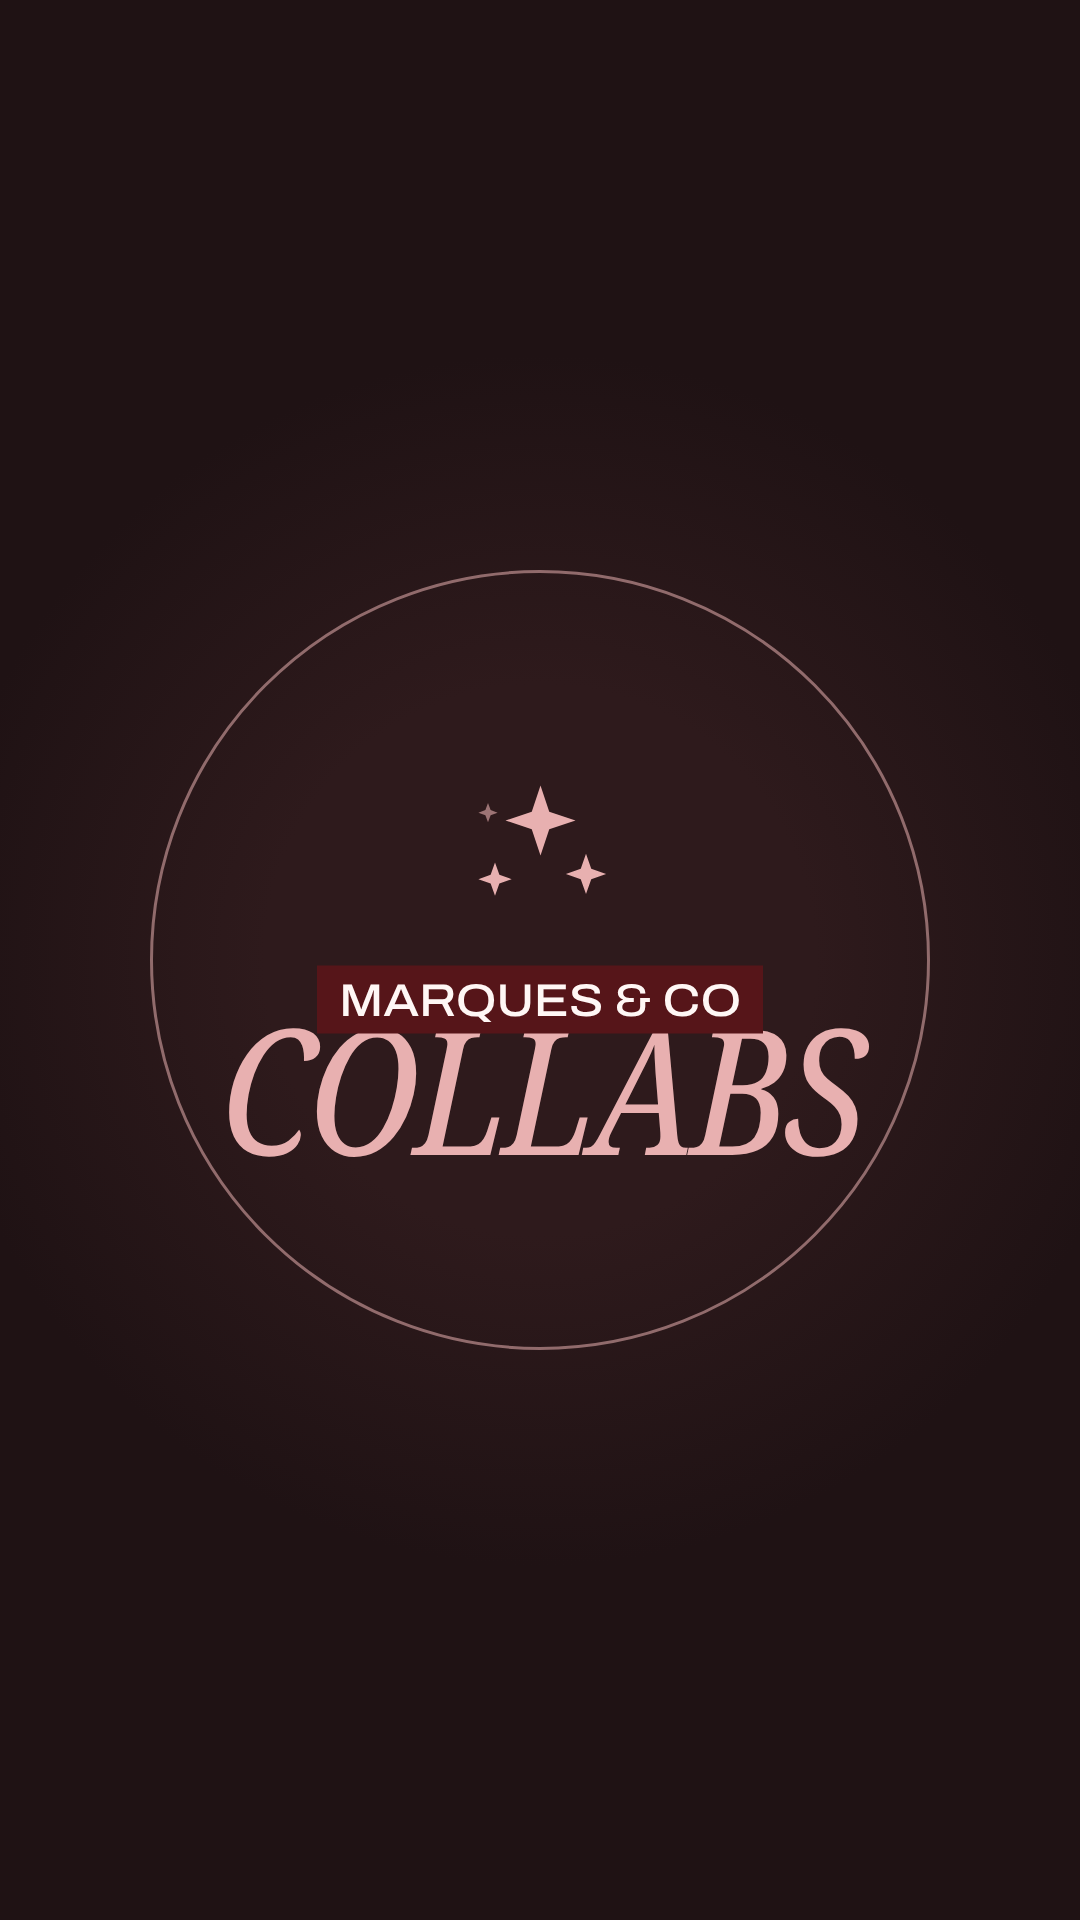
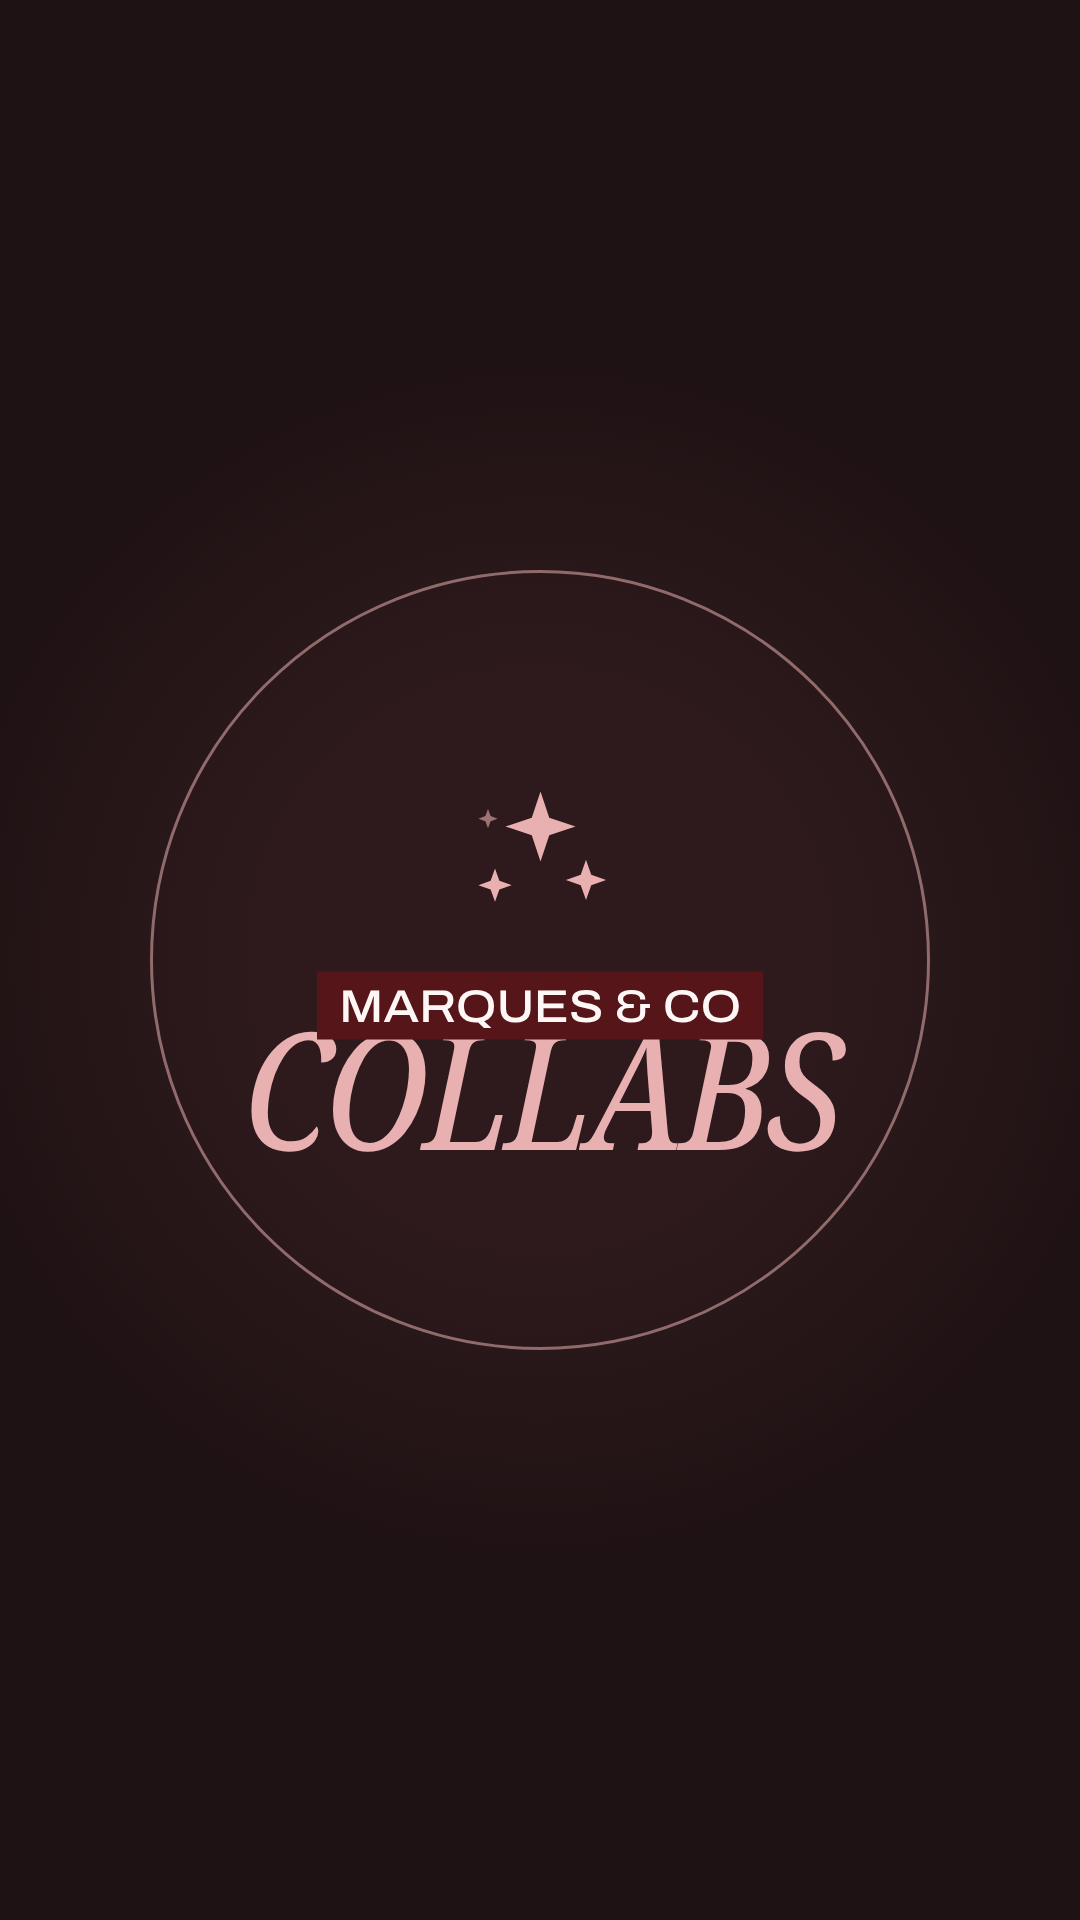
Ajoute les bulles sport, style, matcha, danse et greece
Claude-Session: https://claude.ai/code/session_01M6s8wp3XpgKUKSTkvZAW4S

Changed region(s): [[0.2139, 0.5, 0.825, 0.625], [0.4583, 0.4062, 0.5194, 0.4375], [0.5194, 0.4375, 0.55, 0.4688]]

diff --git a/couvertures-bulles/gen.js b/couvertures-bulles/gen.js
@@ -7,6 +7,11 @@ const mirror=`<svg viewBox="0 0 200 200"><ellipse cx="100" cy="82" rx="52" ry="6
 const collab=`<svg viewBox="0 0 200 200"><path d="M100 40 l10 30 30 10 -30 10 -10 30 -10 -30 -30 -10 30 -10Z" fill="${R}"/><path d="M152 118 l6 17 17 6 -17 6 -6 17 -6 -17 -17 -6 17 -6Z" fill="${R}"/><path d="M48 128 l5 14 14 5 -14 5 -5 14 -5 -14 -14 -5 14 -5Z" fill="${R}"/><path d="M40 60 l3 8 8 3 -8 3 -3 8 -3 -8 -8 -3 8 -3Z" fill="${R}" opacity=".6"/></svg>`;
 const martini=`<svg viewBox="0 0 200 200"><path d="M40 50 H160 L100 118Z" ${S}/><path d="M100 118 V180 M70 182 H130" ${S}/><circle cx="132" cy="44" r="15" fill="${R}"/><path d="M132 30 C136 18 146 12 154 10" ${S} stroke-width="5"/></svg>`;
 const fork=`<svg viewBox="0 0 200 200"><circle cx="100" cy="110" r="66" ${S}/><circle cx="100" cy="110" r="44" ${S} stroke-width="4" opacity=".6"/><path d="M22 40 V186 M12 40 V72 a10 10 0 0 0 20 0 V40" ${S} stroke-width="6"/><path d="M186 186 V40 C168 50 166 90 174 110 H186" ${S} stroke-width="6"/></svg>`;
+const dumbbell=`<svg viewBox="0 0 200 200"><path d="M50 100 H150" ${S}/><rect x="28" y="62" width="22" height="76" rx="6" fill="${R}"/><rect x="150" y="62" width="22" height="76" rx="6" fill="${R}"/><rect x="10" y="78" width="16" height="44" rx="5" fill="${R}"/><rect x="174" y="78" width="16" height="44" rx="5" fill="${R}"/></svg>`;
+const hanger=`<svg viewBox="0 0 200 200"><path d="M86 52 a14 14 0 1 1 22 12 c-6 4 -8 8 -8 16 L176 140 c6 4 4 12 -4 12 H28 c-8 0 -10 -8 -4 -12 L100 80" ${S}/></svg>`;
+const matcha=`<svg viewBox="0 0 200 200"><path d="M24 96 H176 C176 146 144 176 100 176 C56 176 24 146 24 96Z" ${S}/><path d="M36 96 C70 84 130 84 164 96Z" fill="${R}" opacity=".85"/><path d="M78 76 C68 62 88 50 78 34 M104 74 C94 58 116 46 104 26 M130 76 C120 62 140 50 130 34" ${S} stroke-width="5" opacity=".8"/><path d="M148 140 C160 128 178 128 186 120 C184 136 168 150 148 140Z" fill="${R}"/></svg>`;
+const ballet=`<svg viewBox="0 0 200 200"><circle cx="104" cy="34" r="16" fill="${R}"/><path d="M100 56 L94 112 M96 66 C120 54 140 36 150 14 M96 70 C76 80 58 84 38 76 M94 112 L60 186 M94 112 C120 118 150 112 176 96" ${S}/><path d="M80 118 C88 104 104 104 112 118" ${S} stroke-width="5"/></svg>`;
+const column=`<svg viewBox="0 0 200 200"><circle cx="150" cy="44" r="22" fill="${R}"/><path d="M40 70 H130 M46 82 H124 M56 82 V164 M76 82 V164 M94 82 V164 M114 82 V164 M44 164 H126 M36 180 H134" ${S}/><path d="M36 70 C40 60 50 60 54 66 M134 70 C130 60 120 60 116 66" ${S} stroke-width="5"/></svg>`;
 // [fichier, mot (Noto Serif), taille, étiquette (CY Grotesk), icône]
 const covers=[
  ['me','Me',300,'Maena',mirror],
@@ -14,9 +19,14 @@ const covers=[
  ['her','Her',300,'Soirées',martini],
  ['becoming','Becoming',145,'Chaque lundi',cherry],
  ['annecy','Annecy',180,'À croquer',fork],
+ ['sport','Sport',300,'Move',dumbbell],
+ ['style','Style',300,'Outfits',hanger],
+ ['matcha','Matcha',300,'Ma pause',matcha],
+ ['danse','Danse',300,'Dance',ballet],
+ ['greece','Greece',300,'Voyage',column],
 ];
 (async()=>{const b=await chromium.launch();const p=await b.newPage({viewport:{width:1080,height:1920}});
 const t=fs.readFileSync(__dirname+'/template.html','utf8');
 for(const [f,w,s,tag,ic] of covers){await p.setContent(t.replace('__ICON__',ic).replace('__WORD__',w).replace('__SIZE__',s).replace('__TAG__',tag),{waitUntil:'networkidle'});
-await p.evaluate(()=>document.fonts.ready);await p.screenshot({path:`${__dirname}/${f}.png`});}
+await p.evaluate(()=>document.fonts.ready);await p.evaluate(()=>{const w=document.querySelector('.w');let f=parseFloat(w.style.fontSize);while(w.scrollWidth>600&&f>80){f-=4;w.style.fontSize=f+'px';}});await p.screenshot({path:`${__dirname}/${f}.png`});}
 await b.close();})();
